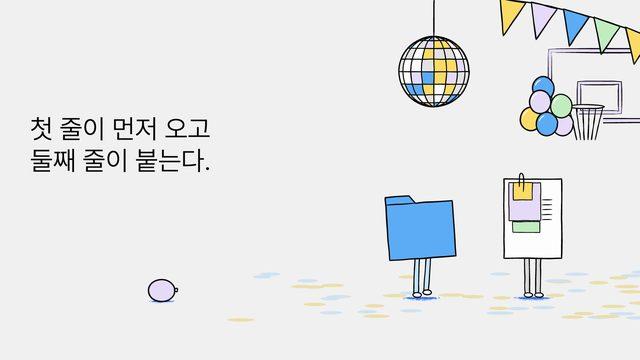
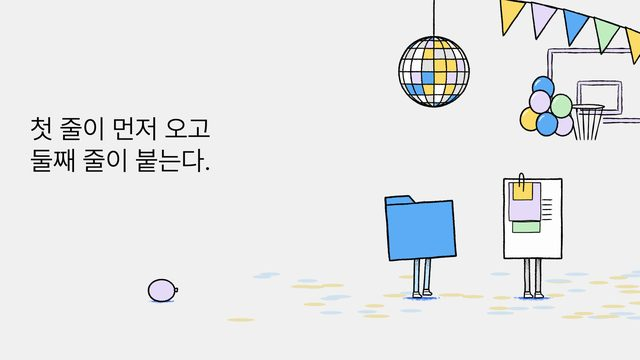
feat: IBM 키트에 거친 선 가장자리와 흑연 음영 추가 (#8)
기준선 장면의 선이 벡터처럼 매끈해서 원본을 4배로 확대해 나란히 놓으면 질감 차이가 가장 먼저 보였다. 모든 장면이 쓰는 IB.ink에서 고치는 것이 장면 하나를 고치는 것보다 범위가 넓어 첫 개선으로 골랐다.

- IB.ink: 2.2px 이상의 선은 가장자리 폭을 표본마다 흔들고, 가장자리 위 1.8px 띠에 마른 붓 가루를 뿌린다(`grain`, 기본 1). 지우는 방식(destination-out)은 버렸다: 채움색 위의 선에서 배경색이 드러난다. 가루를 더하기만 하면 어떤 채움 위에서도 맞다.
- 가루 띠는 선 굵기에 비례시키지 않는다. 비례시키니 104px 튜브에서 가루가 20px 밖까지 퍼졌다.
- IB.shade: 한 변에서 짙고 반대쪽으로 사라지는 점묘 흑연. 원본의 유일한 톤이라 STYLE.md 원칙에도 적었다.
- folder-meets-document에 적용: 다리 뿌리 음영, 장화, 몸 뒤에서 나오는 가늘어지는 팔과 손. 원본 확대 크롭과 대조해 맞췄다.

Claude-Session: https://claude.ai/code/session_01SxpfC35DvvVg9RbvPHCrGA

diff --git a/IBM/scenes/spot/folder-meets-document.html b/IBM/scenes/spot/folder-meets-document.html
@@ -7,7 +7,7 @@
 <script src="../../kit/ink.js"></script>
 <script>
 /* 미러볼 아래 다리 달린 파란 폴더가 풍선을 차자 화면이 옆으로 밀려 서류가 드러나고, 둘이 따로 춤추다 다가가 손을 잡으면 하트 풍선이 떠오른다. 왼쪽 카피는 사건마다 한 줄씩 붙다가 마지막에 통째로 바뀐다. 전달하는 생각: 따로 놀던 두 가지가 마침내 한자리에 선다.
-   Motion notes: one locked shot, no cuts, 11.6 s. Copy is pinned to the screen (x 90, top 351, pitch 95) and only the stage pans: 291 px on twos with per-step travel 9, 12, 12, 113, 117, 13, 9, 6 px (slow out, two big steps, three to settle), starting 1.75 s. Copy beats: line 1 at 1.0 s, line 2 at 1.92 s (the whole block snaps back 37 px and re-settles, tau 0.21 s, still after 0.7 s), full swap at 8.67 s. Characters act on twos and hold dead still between poses; a body never deforms, it tilts or turns as one rigid shape on two thin legs, and arms exist only while they are used (drawn on in 0.25 s). The kicked balloon rises fast then drifts down left for 2 s and stays as a prop. Last second: pose held, only the heart balloon moves, easing up exponentially (tau 0.3 s). Floor is nothing but a blue chalk smear under each pair of feet plus flat confetti ovals. Disco ball tiles re-roll every 4 frames. */
+   Motion notes: one locked shot, no cuts, 11.6 s. Copy is pinned to the screen (x 90, top 351, pitch 95) and only the stage pans: 291 px on twos with per-step travel 9, 12, 12, 113, 117, 13, 9, 6 px (slow out, two big steps, three to settle), starting 1.75 s. Copy beats: line 1 at 1.0 s, line 2 at 1.92 s (the whole block snaps back 37 px and re-settles, tau 0.21 s, still after 0.7 s), full swap at 8.67 s. Characters act on twos and hold dead still between poses; a body never deforms, it tilts or turns as one rigid shape on two thin legs, and arms exist only while they are used (drawn on in 0.25 s). The only tone is stippled graphite where a limb leaves its body (IB.shade). The kicked balloon rises fast then drifts down left for 2 s and stays as a prop. Last second: pose held, only the heart balloon moves, easing up exponentially (tau 0.3 s). Floor is nothing but a blue chalk smear under each pair of feet plus flat confetti ovals. Disco ball tiles re-roll every 4 frames. */
 const { prog, kf, lerp, rng, hash, clamp } = MG;
 const C = IB.C, FLOOR = 893;
 const COPY_A = ['첫 줄이 먼저 오고', '둘째 줄이 붙는다.'], COPY_B = ['마지막에는 통째로', '새 문장이 된다.'];
@@ -19,11 +19,39 @@ const pan = (f) => { let v = 291; for (const [k, x] of PAN) if (f >= k) v = x; r
 const CONFETTI = (() => { const r = rng(12), out = []; for (let i = 0; i < 46; i++) out.push([720 + r() * 1230, 812 + r() * 150, 26 + r() * 16, r() < 0.5 ? '#d1e2ee' : '#eadeac']); return out; })();
 
 function leg(ctx, hx, hy, fx, fy, fill, seed, knee = 0) {
-  // a thin trouser leg from hip to foot, optionally bent, with a small shoe
+  // a thin trouser leg from hip to foot, optionally bent, shaded where it leaves the body, ending in a small boot
   const mx = (hx + fx) / 2 + knee, my = (hy + fy) / 2;
   const dx = fx - hx, dy = fy - hy, d = Math.hypot(dx, dy) || 1, nx = (-dy / d) * 7, ny = (dx / d) * 7;
-  IB.ink(ctx, [[hx - nx, hy - ny], [mx - nx, my - ny], [fx - nx, fy - ny], [fx + nx, fy + ny], [mx + nx, my + ny], [hx + nx, hy + ny]], { closed: true, smooth: knee !== 0, fill, w: 2.5, seed });
-  IB.oval(ctx, fx + 3, fy + 4, 13, 7, { fill: C.paper, w: 2.5, seed: seed + 1, n: 8 });
+  const outline = [[hx - nx, hy - ny], [mx - nx, my - ny], [fx - nx, fy - ny], [fx + nx, fy + ny], [mx + nx, my + ny], [hx + nx, hy + ny]];
+  IB.ink(ctx, outline, { closed: true, smooth: knee !== 0, fill, w: 0, seed });
+  ctx.save(); ctx.translate(hx, hy); ctx.rotate(Math.atan2(dy, dx) - Math.PI / 2);
+  IB.shade(ctx, -6, 0, 12, 42, { from: 'top', seed: seed + 2 });
+  ctx.restore();
+  IB.ink(ctx, outline, { closed: true, smooth: knee !== 0, w: 2.8, seed });
+  IB.ink(ctx, [[fx - 8, fy - 5], [fx + 8, fy - 5], [fx + 9, fy + 2], [fx + 17, fy + 8], [fx + 14, fy + 12], [fx - 9, fy + 12]], { closed: true, smooth: false, fill: C.paper, w: 2.6, seed: seed + 1 });
+  IB.seg(ctx, fx - 7, fy + 2, fx + 8, fy + 2, { w: 1.8, seed: seed + 3 });
+}
+
+/* A thin arm from a root on the body's edge to a hand: tapered, shaded at the root, drawn on by p (0..1), with a small mitten hand once it has arrived. */
+function arm(ctx, root, hand, p, seed, sag = 6) {
+  if (p <= 0) return;
+  const tip = [lerp(root[0], hand[0], p), lerp(root[1], hand[1], p)];
+  const dx = tip[0] - root[0], dy = tip[1] - root[1], d = Math.hypot(dx, dy) || 1, nx = -dy / d, ny = dx / d, s = Math.sign(dx) * sag * p;
+  const mid = [(root[0] + tip[0]) / 2 - nx * s, (root[1] + tip[1]) / 2 - ny * s];
+  const shape = [[root[0] + nx * 6.5, root[1] + ny * 6.5], [mid[0] + nx * 4.5, mid[1] + ny * 4.5], [tip[0] + nx * 3.5, tip[1] + ny * 3.5], [tip[0] - nx * 3.5, tip[1] - ny * 3.5], [mid[0] - nx * 4.5, mid[1] - ny * 4.5], [root[0] - nx * 6.5, root[1] - ny * 6.5]];
+  IB.ink(ctx, shape, { closed: true, fill: C.paper, w: 0, seed });
+  ctx.save(); ctx.translate(root[0], root[1]); ctx.rotate(Math.atan2(dy, dx));
+  IB.shade(ctx, 0, -6, 46, 12, { from: 'left', seed: seed + 1, alpha: 0.5 });
+  ctx.restore();
+  IB.ink(ctx, shape.slice(0, 3), { w: 2.8, seed: seed + 2, taper: false });
+  IB.ink(ctx, shape.slice(3), { w: 2.8, seed: seed + 3, taper: false });
+  if (p < 1) return;
+  // mitten: a palm and three finger strokes pointing along the arm
+  const a = Math.atan2(dy, dx);
+  ctx.save(); ctx.translate(tip[0], tip[1]); ctx.rotate(a);
+  IB.ink(ctx, [[-2, -6], [10, -9], [20, -5], [22, 3], [12, 8], [-2, 6]], { closed: true, fill: C.paper, w: 2.6, seed: seed + 4 });
+  for (const y of [-3, 1, 5]) IB.seg(ctx, 12, y, 21, y + 1, { w: 1.6, seed: seed + 5 + y });
+  ctx.restore();
 }
 
 /* A rigid body on two legs. p: { x, tilt, lift, feet: [[dx, dy], [dx, dy]], sx } — x is the hip centre on the floor line, feet are offsets from it. */
@@ -44,11 +72,11 @@ function actor(ctx, p, body, legFill, hipY, seed) {
   ctx.restore();
 }
 const folderBody = (ctx) => {
-  IB.ink(ctx, [[-100, -190], [-28, -190], [-10, -167], [100, -167], [100, 0], [-100, 0]], { closed: true, smooth: false, fill: C.blue, w: 3.2, seed: 21 });
-  IB.seg(ctx, -100, -167, -12, -167, { w: 2.5, seed: 22 });
+  IB.ink(ctx, [[-100, -190], [-28, -190], [-10, -167], [100, -167], [100, 0], [-100, 0]], { closed: true, smooth: false, fill: C.blue, w: 4, seed: 21 });
+  IB.seg(ctx, -100, -167, -12, -167, { w: 3, seed: 22 });
 };
 const docBody = (ctx) => {
-  IB.box(ctx, -86, -238, 173, 238, { fill: C.paper, w: 3.2, seed: 31 });
+  IB.box(ctx, -86, -238, 173, 238, { fill: C.paper, w: 3.6, seed: 31 });
   IB.box(ctx, -71, -227, 95, 114, { fill: C.lavender, w: 2, seed: 32 });
   IB.box(ctx, -58, -227, 57, 52, { fill: C.yellow, w: 2, seed: 33 });
   IB.box(ctx, -60, -110, 82, 32, { fill: C.mint, w: 2, seed: 34 });
@@ -146,19 +174,18 @@ MG.scene({
     IB.ink(ctx, [[bx + 38, by - 2], [bx + 47, by - 7], [bx + 46, by + 4]], { closed: true, fill: C.lavender, w: 2.4, seed: 17 });
 
     const fp = folderPose(t), dp = docPose(t);
-    actor(ctx, dp, docBody, '#d9d9d9', 106, 300);
-    if (dp.akimbo) for (const s of [-1, 1]) IB.ink(ctx, [[dp.x + s * 86, 650], [dp.x + s * 112, 690], [dp.x + s * 88, 720]], { w: 2.8, seed: 320 + s });
-    actor(ctx, fp, folderBody, C.sky, 106, 200);
-
-    // arms appear only to hold hands: the folder reaches at 9.25 s, the document answers at 9.5 s, one swing at 10 s
     const tt = IB.twos(t);
+    // arms appear only to hold hands, from behind each body's edge: the folder reaches at 9.25 s, the document answers at 9.5 s, one swing at 10 s
     if (tt >= 9.25) {
       const sw = kf(tt, [[10.0, 0], [10.17, 1, 'outQuad'], [10.5, 0, 'inOutQuad']]);
-      const H = [1457, 738 - sw * 52];
-      IB.ink(ctx, [[1415, 650], [1432, 700 - sw * 20], H], { w: 3, seed: 400, to: prog(tt, 9.25, 0.25) });
-      IB.ink(ctx, [[1512, 655], [1490, 702 - sw * 20], [H[0] + 8, H[1] - 2]], { w: 3, seed: 401, to: prog(tt, 9.5, 0.25) });
-      if (tt >= 9.75) IB.oval(ctx, H[0] + 4, H[1] + 2, 10, 9, { fill: C.paper, w: 2.4, seed: 402, n: 8 });
+      const H = [1458, 734 - sw * 52];
+      arm(ctx, [1524, 652], [H[0] + 12, H[1]], prog(tt, 9.5, 0.25), 420, -8);
+      arm(ctx, [1403, 648], [H[0] - 12, H[1]], prog(tt, 9.25, 0.25), 400, 8);
     }
+    actor(ctx, dp, docBody, '#d9d9d9', 106, 300);
+    if (dp.akimbo) for (const s of [-1, 1]) { IB.tube(ctx, [[dp.x + s * 86, 648], [dp.x + s * 114, 688], [dp.x + s * 90, 718]], { w: 11, edge: 2.6, fill: C.paper, smooth: true, seed: 320 + s }); IB.oval(ctx, dp.x + s * 88, 720, 8, 7, { fill: C.paper, w: 2.4, seed: 324 + s, n: 8 }); }
+    actor(ctx, fp, folderBody, C.sky, 106, 200);
+
     // heart balloon: the only thing moving in the last second
     if (tt >= 10.6) {
       const hy = lerp(720, 415, IB.settle(tt - 10.6, 0.3)), hx = 1456;

diff --git a/IBM/kit/ink.js b/IBM/kit/ink.js
@@ -69,15 +69,16 @@
      smooth  true: curve through the points; false: straight sides with crisp corners
      wob     how far the hand drifts off the true line, px
      seed    fixes the drift; give every stroke its own
+     grain   0 = clean edge; 1 (default) = rough edge and dry-brush dust, applied to strokes 2.2 px and wider
      from,to draw only this fraction of the stroke (0..1), for a line that is drawn on. They cut the outline only: a fill is always painted whole, even when from >= to leaves no outline */
   IB.ink = (ctx, pts, o = {}) => {
-    const { w = 3, color = IB.C.ink, closed = false, smooth = true, fill = null, seed = 1, wob = 0.7, taper = !closed, from = 0, to = 1 } = o;
+    const { w = 3, color = IB.C.ink, closed = false, smooth = true, fill = null, seed = 1, wob = 0.7, taper = !closed, from = 0, to = 1, grain = 1 } = o;
     if (pts.length < 2) return;
-    const step = Math.max(3, w * 1.6);
+    const step = Math.max(2.4, w);
     let p = smooth ? spline(pts, closed, step) : resample(pts, closed, step);
     const n = p.length;
     // drift each point off its place, slowly along the stroke
-    const q = p.map(([x, y], i) => [x + drift(seed, i * 0.16) * wob, y + drift(seed + 7, i * 0.16) * wob]);
+    const q = p.map(([x, y], i) => [x + drift(seed, i * step * 0.033) * wob, y + drift(seed + 7, i * step * 0.033) * wob]);
     if (fill) {
       ctx.beginPath();
       q.forEach(([x, y], i) => (i ? ctx.lineTo(x, y) : ctx.moveTo(x, y)));
@@ -93,12 +94,13 @@
     const pick = closed && from === 0 && to === 1 ? q.concat([q[0], q[1]]) : [at(from), ...ring.slice(a, b + 1), at(to)];
     const m = pick.length;
     if (m < 2) return;
-    const L = [], R = [];
+    const L = [], R = [], rough = grain > 0 && w >= 2.2;
     for (let i = 0; i < m; i++) {
       const p0 = pick[Math.max(0, i - 1)], p1 = pick[Math.min(m - 1, i + 1)];
       const d = dist(p0, p1) || 1, nx = -(p1[1] - p0[1]) / d, ny = (p1[0] - p0[0]) / d;
       // pressure: the width breathes by ±18%, and an open stroke thins toward both ends like a lifted brush
-      let half = (w / 2) * (1 + 0.18 * drift(seed + 13, (from * last + i) * 0.11));
+      let half = (w / 2) * (1 + 0.18 * drift(seed + 13, (from * last + i) * step * 0.023));
+      if (rough) half *= 0.9 + 0.22 * MG.hash(seed + 29, a + i);   // tooth of the paper: the edge is never a clean curve
       if (taper) half *= 0.45 + 0.55 * Math.min(1, Math.min(i, m - 1 - i) / 3);
       L.push([pick[i][0] + nx * half, pick[i][1] + ny * half]);
       R.push([pick[i][0] - nx * half, pick[i][1] - ny * half]);
@@ -114,6 +116,19 @@
     ctx.lineWidth = Math.min(1, w * 0.3);
     ctx.strokeStyle = color;
     ctx.stroke();
+    if (rough) {
+      // dry-brush dust: specks straddling both edges, so the line reads as charcoal on paper rather than vector
+      const r = MG.rng(seed * 7 + 11), alpha = ctx.globalAlpha;
+      for (let i = 0; i < m - 1; i++) {
+        const [x0, y0] = pick[i], [x1, y1] = pick[i + 1], d = dist(pick[i], pick[i + 1]) || 1, nx = -(y1 - y0) / d, ny = (x1 - x0) / d;
+        for (let k = Math.max(1, Math.round(d * 0.55 * grain)); k > 0; k--) {
+          const u = r(), off = (r() < 0.5 ? -1 : 1) * (w / 2 - 0.7 + r() * 1.8), sz = 0.7 + r() * 1.1;   // a 1.8 px band on the edge, whatever the width
+          ctx.globalAlpha = alpha * (0.25 + 0.5 * r());
+          ctx.fillRect(x0 + (x1 - x0) * u + nx * off - sz / 2, y0 + (y1 - y0) * u + ny * off - sz / 2, sz, sz);
+        }
+      }
+      ctx.globalAlpha = alpha;
+    }
   };
 
   /* Point lists for the common shapes, ready for IB.ink. */
@@ -164,6 +179,21 @@
       ctx.fillRect(cx + u * w * 1.38, y - 2 + v * h * (0.35 + 0.75 * edge), s * 1.6, s);
     }
     ctx.restore();
+  };
+
+  /* shade(ctx, x, y, w, h, opts) — soft graphite shading, the only tone the reference adds to its flat fills: densest along one edge of the w x h box and fading to nothing at the opposite one. `from` names the dense edge ('top' | 'bottom' | 'left' | 'right'). Legs get it under the body, arms where they leave it, objects where they meet the floor. Stippled, so it sits on any fill colour. */
+  IB.shade = (ctx, x, y, w, h, o = {}) => {
+    const { from = 'top', color = IB.C.ink, alpha = 0.55, seed = 9, reach = 1.6 } = o;
+    const r = MG.rng(seed * 3 + 1), a0 = ctx.globalAlpha, n = Math.round(w * h * 0.5);
+    ctx.fillStyle = color;
+    for (let i = 0; i < n; i++) {
+      const u = r(), v = Math.pow(r(), reach), s = 0.8 + r() * 1.2;   // v crowds toward the dense edge
+      const px = from === 'left' ? x + v * w : from === 'right' ? x + w - v * w : x + u * w;
+      const py = from === 'top' ? y + v * h : from === 'bottom' ? y + h - v * h : y + u * h;
+      ctx.globalAlpha = a0 * alpha * (0.3 + 0.7 * r()) * (1 - v);
+      ctx.fillRect(px, py, s, s);
+    }
+    ctx.globalAlpha = a0;
   };
 
   /* ---------- copy ---------- */

diff --git a/IBM/STYLE.md b/IBM/STYLE.md
@@ -11,6 +11,7 @@
 - **무대는 비우고 배우와 소품만 둔다.** 배경은 `#f0f0f0` 한 색이고 벽·바닥·하늘을 칠하지 않는다. 장소는 소품 두세 개(점수판, 미러볼, 창틀)로만 알리고, 바닥은 발밑의 파란 분필 스미어 `#2f6bea`가 대신한다. 스미어가 없으면 인물이 떠 보인다. (`spot/folder-meets-document`)
 - **색은 한 샷에 하나에서 셋, 나머지는 흰 채움과 검은 선이다.** 화면의 83~98%가 배경 회색이고 색 면적은 1~8%다. 로열블루 `#1e66f0`은 스미어와 태그라인에만 쓰고 인물과 소품에는 쓰지 않는다.
 - **선 굵기는 샷 크기를 따른다.** 같은 인물이라도 와이드에서는 3px(2~4), 상반신 미디엄에서는 5~8px, 멀리 작게 나올 때는 1~2px다. 그림을 확대하면 선도 같이 굵어진다는 뜻이고, 한 화면 안에서 굵기를 섞는 것은 설정 샷(1~6px)뿐이다.
+- **선은 벡터처럼 매끈하지 않고, 음영은 흑연 한 가지뿐이다.** 선 가장자리는 종이결에 걸린 듯 1~2px 폭으로 거칠고(4배로 확대해야 보이는 정도), 면은 전부 평평한 단색이다. 톤이 들어가는 곳은 팔다리가 몸에서 나오는 뿌리와 물체가 바닥에 닿는 자리뿐이고, 거기에만 점묘 같은 검은 흑연이 40px쯤 번졌다 사라진다. `IB.ink`의 `grain`과 `IB.shade`가 이 역할이다. (`spot/folder-meets-document`)
 - **연기는 2프레임에 한 번(12fps), 멈춘 포즈는 완전히 멈춘다.** 선이 제자리에서 떨리는 boil이 없다. 포즈 사이에 1~2초씩 프레임 차이가 0인 구간이 있고, 이 정지가 다음 동작을 크게 보이게 한다. 느린 연기는 3프레임에 한 번(8fps)까지 내려간다. `IB.twos(t)`가 이 역할이다.
 - **카메라, 카피, 스크롤만 1프레임 단위(24fps)로 움직인다.** 그림은 뚝뚝 끊기고 그 위의 글자와 화면 이동은 매끄럽다. 둘을 같은 프레임레이트로 맞추면 이 룩이 사라진다.
 - **카피는 페이드하지 않고, 왼쪽에서 밀려 들어와 멈춘다.** 첫 프레임부터 불투명도 100%로 37~71px 왼쪽에 나타나 지수 감쇠로 제자리에 선다: 프레임마다 남은 거리의 18~19%씩 줄어들다가(시간 상수 0.20~0.21초) 0.7~0.79초 뒤에 정확히 멈춘다. 순수한 지수 곡선은 1초가 지나도 1px쯤 남지만 원본은 그 전에 0이 되므로, `IB.settle`은 멈추는 시각에 딱 닿도록 곡선을 늘려 맞췄다(71px 카피의 남은 거리 60, 48, 38, 31, 25, 20, 16, 13, 10px에 프레임 단위로 맞음). 둘째 줄부터는 줄마다 1프레임씩 늦게 나타난다. `IB.copy`가 이 값을 쓴다. (`copy/copy-cards-flashlight`)
@@ -48,7 +49,7 @@
 - **룩:** 왼쪽 위아래 가운데쯤에 카피, 오른쪽 절반에 작은 무대. 카피는 왼쪽 여백 90px, 첫 줄 글자 윗선 y=351, 줄 간격 94~95px, 글자 높이(올림선에서 내림선까지) 78px, 검정, 가는 굵기. 인물과 소품은 화면 높이의 20~25%로 작고 선은 3px(탠덤처럼 더 작으면 1~2px), 바닥은 발밑 스미어와 흩어진 옅은 타원 색종이(`#d1e2ee`, `#eadeac`)뿐이다. 6편만 검은 배경(`#000000`)에 흰 카피로 시작해 하드 컷으로 밝아진다.
 - **인물:** 사물에 가는 다리만 붙인 캐릭터(폴더, 서류)는 몸통이 변형되지 않고 통째로 기울거나 돈다. 팔은 필요한 순간에만 선 두 가닥으로 나왔다가 사라진다.
 - **모션:** 카피는 무대의 사건에 맞춰 한 줄씩 붙고(1.0초에 첫 줄, 2.0초에 둘째 줄), 클라이맥스에서 한 번 통째로 바뀐다(8.7초). 카피는 화면에 고정이고 무대만 팬한다. 5편은 인물이 제자리에 있고 바닥 소품(풀, 돌)과 구름이 1프레임 단위로 왼쪽으로 흘러 달리는 것처럼 보인다. 마지막 1초는 포즈를 붙잡고, 작은 것 하나(하트 풍선)만 떠오른다.
-- **키트:** `kit/ink.js` (`IB.copy`, `IB.ink`, `IB.smear`, `IB.twos`)
+- **키트:** `kit/ink.js` (`IB.copy`, `IB.ink`, `IB.shade`, `IB.smear`, `IB.twos`)
 - **장면:** `scenes/spot/`
 
 ## copy: 카피 카드

diff --git a/IBM/README.md b/IBM/README.md
@@ -20,7 +20,7 @@ ffmpeg -i video1.mp4 -i video2.mp4 -i video3.mp4 -i video4.mp4 -i video5.mp4 -i 
 장면은 공용 엔진(`../core/`) 위에 이 부품을 `<script src>`로 불러 쓴다. 전부 canvas에 그린다.
 
 ```
-ink.js   팔레트(IB.C), 붓펜 선과 채움(IB.ink, IB.box, IB.oval, IB.tube), 분필 스미어(IB.smear),
+ink.js   팔레트(IB.C), 붓펜 선과 채움(IB.ink, IB.box, IB.oval, IB.tube), 흑연 음영(IB.shade), 분필 스미어(IB.smear),
          밀려 들어와 멈추는 카피(IB.copy, IB.TYPE), 12fps 양자화(IB.twos), 스피드라인 휩(IB.whip), 날벌레(IB.flyer)
 ```
 
